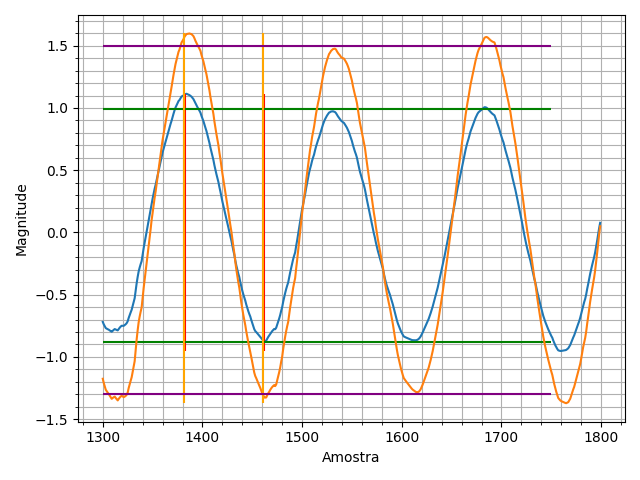
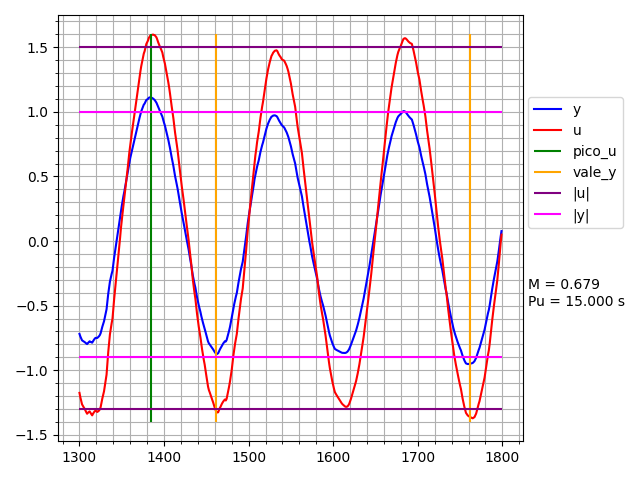
refactor: clean up imports and enhance code structure; update controller parameters and validation logic

Changed region(s): [[0.0, 0.0312, 1.0, 0.9688]]

diff --git a/torneira/controle/experimentos/pi.c b/torneira/controle/experimentos/pi.c
@@ -28,9 +28,11 @@
 #define ALPHA 0.88
 
 /* Controller Parameters */
-#define Kp ((float64)(-1.5))
-#define Ti ((float64)(24.0))
-#define Ts SAMPLING_PERIOD_SEC
+#define Kp 0.663
+#define Ti 12.50
+#define Ts 0.100
+#define U_MIN 2.0
+#define U_MAX 8.0
 
 #define DAQmxErrChk(functionCall)                                \
   do {                                                           \
@@ -105,67 +107,48 @@ static inline void controller_init(controller_state_t *c, float64 u0, float64 e0
 
 static inline float64 controller_update_euler(controller_state_t *c, float64 e_n)
 {
-  const float64 u_min = 2.0;
-  const float64 u_max = 8.0;
+  /* Backward Euler coefficients */
+  float64 q0 = Kp * (1.0 + Ts / Ti);
+  float64 q1 = -Kp;
 
-  const float64 Ki = Kp / Ti;
+  /* Compute raw control action */
+  float64 u_n = c->u_prev + q0 * e_n + q1 * c->e_prev;
 
-  /* Compute candidate (unsaturated) control */
-  float64 du_p = Kp * (e_n - c->e_prev);
-  float64 du_i = Ki * Ts * e_n;
-
-  float64 u_unsat = c->u_prev + du_p + du_i;
-
-  /* Apply saturation */
-  float64 u_sat = fmax(fmin(u_unsat, u_max), u_min);
-
-  /* Anti-windup: conditional integration */
-  int saturating_high = (u_unsat > u_max);
-  int saturating_low = (u_unsat < u_min);
-
-  if ((saturating_high && e_n > 0.0) || (saturating_low && e_n < 0.0)) {
-    /* Remove integral contribution */
-    u_unsat = c->u_prev + du_p;
-    u_sat = fmax(fmin(u_unsat, u_max), u_min);
+  /* Anti-windup via output saturation */
+  if (u_n > U_MAX) {
+    u_n = U_MAX;
+  } else if (u_n < U_MIN) {
+    u_n = U_MIN;
   }
 
-  c->u_prev = u_sat;
+  /* State update */
+  c->u_prev = u_n;
   c->e_prev = e_n;
 
-  return u_sat;
+  return u_n;
 }
 
 static inline float64 controller_update_tustin(controller_state_t *c, float64 e_n)
 {
-  const float64 u_min = 2.0;
-  const float64 u_max = 8.0;
+  /* Tustin (Bilinear) coefficients */
+  float64 q0 = Kp * (1.0 + Ts / (2.0 * Ti));
+  float64 q1 = -Kp * (1.0 - Ts / (2.0 * Ti));
 
-  const float64 a = Kp;
-  const float64 b = Kp * (Ts / (2.0 * Ti));
+  /* Compute raw control action */
+  float64 u_n = c->u_prev + q0 * e_n + q1 * c->e_prev;
 
-  /* Incremental contributions */
-  float64 du_p = a * (e_n - c->e_prev);
-  float64 du_i = b * (e_n + c->e_prev);
-
-  float64 u_unsat = c->u_prev + du_p + du_i;
-
-  /* Saturation */
-  float64 u_sat = fmax(fmin(u_unsat, u_max), u_min);
-
-  /* Anti-windup: conditional integration */
-  int sat_high = (u_unsat > u_max);
-  int sat_low = (u_unsat < u_min);
-
-  if ((sat_high && e_n > 0.0) || (sat_low && e_n < 0.0)) {
-    /* Remove integral contribution */
-    u_unsat = c->u_prev + du_p;
-    u_sat = fmax(fmin(u_unsat, u_max), u_min);
+  /* Anti-windup via output saturation */
+  if (u_n > U_MAX) {
+    u_n = U_MAX;
+  } else if (u_n < U_MIN) {
+    u_n = U_MIN;
   }
 
-  c->u_prev = u_sat;
+  /* State update */
+  c->u_prev = u_n;
   c->e_prev = e_n;
 
-  return u_sat;
+  return u_n;
 }
 
 /* Global state */
@@ -277,7 +260,7 @@ void *control_loop_task(void *arg)
         current_state = SYSTEM_STATE_CONTROL;
       }
 
-      printf("%lf\n", y_hat_celsius);
+      if (wait_timeout_counter % 10 == 0) { printf("%lf\n", y_hat_celsius); }
 
     } else if (current_state == SYSTEM_STATE_CONTROL) {
 
@@ -300,7 +283,7 @@ void *control_loop_task(void *arg)
 
       samples_recorded++;
 
-      printf("%d, %lf, %lf, %lf\n", samples_recorded, ref, y_hat_celsius, data_write);
+      if (samples_recorded % 10 == 0) { printf("%lf, %lf, %lf\n", ref, y_hat_celsius, data_write); }
 
       if (samples_recorded >= N_SAMPLES) { break; /* Target completed */ }
     }

diff --git a/torneira/controle/experimentos/validacao.py b/torneira/controle/experimentos/validacao.py
@@ -1,6 +1,6 @@
 import matplotlib.pyplot as plt
-import pandas as pd
 import numpy as np
+import pandas as pd
 
 EXPERIMENT_NAME = "pi"  # Change to "imc" for the IMC experiment
 
@@ -30,7 +30,7 @@ def main():
     plt.savefig(f"experimento_{EXPERIMENT_NAME}.png")
 
     fit_start = 1300
-    fit_end = 1750
+    fit_end = 1800
     _, y_hat_fit, u_fit = ref[fit_start:], y_hat[fit_start:], u[fit_start:]
 
     y_hat_fit_mean = float(np.mean(y_hat_fit))
@@ -40,76 +40,46 @@ def main():
     u_fit = u_fit - u_fit_mean
 
     plt.figure()
-    plt.plot(y_hat_fit, label="Resposta do Sistema")
+    plt.plot(y_hat_fit, color="blue", label="y")
+    plt.plot(u_fit, color="red", label="u")
 
-    xpeak = 1382
-    xvalley = 1462
+    ku_peak0 = 1385
+    ky_valley0 = 1462
+    ky_valley2 = 1762
 
+    vu_peak = 1.5
+    vu_valley = -1.3
+    vy_peak = 1.0
+    vy_valley = -0.9
+
+    plt.vlines(x=ku_peak0, ymin=-1.4, ymax=1.6, colors="green", label="pico_u")
     plt.vlines(
-        x=xpeak, ymin=y_hat_fit.min(), ymax=y_hat_fit.max(), colors="red", label="xpico"
-    )
-    plt.vlines(
-        x=xvalley,
-        ymin=y_hat_fit.min(),
-        ymax=y_hat_fit.max(),
-        colors="red",
-        label="xvale",
-    )
-
-    P = (xvalley - xpeak) * 2  # samples
-    Ps = P * 0.1  # Ts = 0.1 s
-    print(f"Período P: {P} amostras, {Ps:.1f} segundos")
-
-    ypeak = 29.0 - y_hat_fit_mean
-    yvalley = 27.125 - y_hat_fit_mean
-
-    plt.hlines(y=ypeak, xmin=fit_start, xmax=fit_end, colors="green", label="ypico")
-    plt.hlines(y=yvalley, xmin=fit_start, xmax=fit_end, colors="green", label="yvale")
-
-    Ymag = (ypeak - yvalley) / 2
-    print(f"Amplitude Y: {Ymag:.1f} °C")
-
-    plt.plot(u_fit, label="Sinal de Controle")
-
-    xpeak_u = 1381
-    xvalley_u = 1461
-
-    plt.vlines(
-        x=xpeak_u, ymin=u_fit.min(), ymax=u_fit.max(), colors="orange", label="xpico_u"
-    )
-    plt.vlines(
-        x=xvalley_u,
-        ymin=u_fit.min(),
-        ymax=u_fit.max(),
-        colors="orange",
-        label="xvale_u",
-    )
-
-    dk = Ps * 3
-    dt = dk * 0.1  # Ts = 0.1 s
-    print(f"Atraso dk: {dk} amostras, {dt:.1f} segundos")
-
-    phi = -2 * np.pi * dt / Ps
-    print(f"Atraso em fase: {phi:.2f} radianos, {np.degrees(phi):.1f} graus")
-
-    ypeak_u = 1.5
-    yvalley_u = -1.3
-
-    plt.hlines(
-        y=ypeak_u, xmin=fit_start, xmax=fit_end, colors="purple", label="ypico_u"
+        x=[ky_valley0, ky_valley2], ymin=-1.4, ymax=1.6, colors="orange", label="vale_y"
     )
     plt.hlines(
-        y=yvalley_u, xmin=fit_start, xmax=fit_end, colors="purple", label="yvale_u"
+        y=[vu_peak, vu_valley],
+        xmin=fit_start,
+        xmax=fit_end,
+        colors="purple",
+        label="|u|",
     )
+    plt.hlines(
+        y=[vy_peak, vy_valley],
+        xmin=fit_start,
+        xmax=fit_end,
+        colors="magenta",
+        label="|y|",
+    )
+    plt.legend(loc=(1.01, 0.5))
 
-    Umag = (ypeak_u - yvalley_u) / 2
-    print(f"Amplitude U: {Umag:.1f} V")
+    Ku = (vu_peak - vu_valley) / 2
+    Ky = (vy_peak - vy_valley) / 2
+    M = Ky / Ku
 
-    M = Ymag / Umag
-    print(f"Ganho de Magnitude: {M:.1f} °C/V")
+    Pu = (ky_valley2 - ky_valley0) / 2 * 0.1  # seconds
 
-    plt.xlabel("Amostra")
-    plt.ylabel("Magnitude")
+    plt.text(1830, -0.5, f"M = {M:.3f}\nPu = {Pu:.3f} s")
+
     plt.minorticks_on()
     plt.grid(which="both")
 

diff --git a/torneira/controle/controle.py b/torneira/controle/controle.py
@@ -4,11 +4,10 @@ import control
 import matplotlib.pyplot as plt
 import numpy as np
 from control import TransferFunction
-from matplotlib.patches import Circle
-
 from digital_controller import DigitalControllerIMC, DigitalControllerPID
 from digital_filter import DigitalFilter
 from discrete_system import DiscreteSystem
+from matplotlib.patches import Circle
 
 # -----------------------------------------------------------------------------
 # 2. Closed-Loop Integration & Validation

diff --git a/torneira/controle/experimentos/representacao_experimento_inicial.py b/torneira/controle/experimentos/representacao_experimento_inicial.py
@@ -1,8 +1,8 @@
 # we forgot to store the first experiment's data so we will need to simulate it here
 
+import matplotlib.pyplot as plt
 import numpy as np
 import scipy.signal as signal
-import matplotlib.pyplot as plt
 
 y_final = 27.0
 y_0 = 23.0

diff --git a/torneira/modelo_mf/identifica.py b/torneira/modelo_mf/identifica.py
@@ -1,6 +1,6 @@
 import numpy as np
-from scipy.optimize import least_squares
 from data_io import load_experiment_data, plot_comparison
+from scipy.optimize import least_squares
 
 Ts = 0.1
 

diff --git a/torneira/modelo_mf/data_io.py b/torneira/modelo_mf/data_io.py
@@ -1,7 +1,7 @@
 import matplotlib
+import matplotlib.pyplot as plt
 import numpy as np
 import pandas as pd
-import matplotlib.pyplot as plt
 
 
 def load_experiment_data(

diff --git a/torneira/filtro/filtro.py b/torneira/filtro/filtro.py
@@ -5,7 +5,6 @@ from data_io import (
     load_model_predictions,
     plot_filter,
 )
-
 from digital_filter import DigitalFilter
 
 
